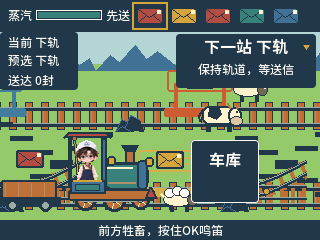
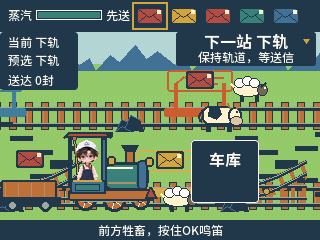
fix: keep POST route guidance above stations

Changed region(s): [[0.5312, 0.1167, 1.0, 0.3792]]

diff --git a/game-art/adventure/prototype/adv_post_draw.js b/game-art/adventure/prototype/adv_post_draw.js
@@ -49,13 +49,13 @@
     text(g.transition?'正在换轨':'当前 '+(g.lane?'下轨':'上轨'),8,36);
     text('预选 '+(g.choice?'下轨':'上轨'),8,54);
     text(g.practice?(g.lesson<2?'练习 1/3':g.lesson<3?'练习 2/3':'练习 3/3'):'送达 '+(g.score>9999?'9999+':g.score+'封'),8,74);
-    c.fillStyle='#203849';c.fillRect(176,34,140,54);
+    c.fillStyle='#203849';c.fillRect(176,32,140,34);
     const r=P.route(g);let title,actionHint;
     if(g.practice){
       [title,actionHint]=[['第一步 选上轨','按上键选择上轨'],['正在切换到上轨','等到红站再送信'],['第二步 送红信','现在轻点一下OK'],['第三步 鸣笛','按住OK让羊离开'],['鸣笛成功','先松开OK'],['你学会了','点OK继续']][g.lesson];
     }else if(r.lane<0){title=g.remaining?'前方暂无车站':'信已送完';actionHint=g.remaining?'看到站牌再选轨':'自动回库补信';}
     else{title='下一站 '+(r.lane?'下轨 ↓':'上轨 ↑');actionHint=r.canChoose?(r.choiceMatches?'已选好，保持轨道':r.lane?'按下键选下轨':'按上键选上轨'):r.atLane?'保持轨道，等送信':g.lane===r.lane?'正在切换轨道':'已过岔口，来不及了';}
-    text(title,246,38,16,'#fffaf0','center');text(actionHint,246,63,12,!g.practice&&r.canChoose&&!r.choiceMatches?'#f3c15a':'#fffaf0','center');
+    text(title,246,33,16,'#fffaf0','center');text(actionHint,246,51,12,!g.practice&&r.canChoose&&!r.choiceMatches?'#f3c15a':'#fffaf0','center');
     const reasons=['','未到送信位置','这站在另一轨','信封颜色不同','没有待送的信','错过站台 蒸汽-250','撞到牲畜 蒸汽-250'];
     const animal=g.events.some(e=>e.type===4&&!e.done&&e.lane===g.lane&&e.x>P.X&&e.x<P.X+g.speed*90);
     const pending=g.hold>0&&g.hold<P.HOLD&&g.tapTarget>=0&&!g.tapReason;

diff --git a/tests/adv_host/adv_ui_host.c b/tests/adv_host/adv_ui_host.c
@@ -6,6 +6,7 @@
 #include "adv_model.h"
 #include "adv_post.h"
 #include "adv_ui.h"
+#include "adv_ui_art.h"
 #include "adv_ui_animation.h"
 #include "nabo_jump_model.h"
 
@@ -128,6 +129,26 @@ void host_post_case(int which)
         p->events[0]=(adv_post_event_t){POST_FORK,(which==11?90:240)*60,0,0,which==11,0};
         p->events[1]=(adv_post_event_t){POST_STATION,(which==11?190:340)*60,lane,p->mail[0],0,0};
     }
+}
+
+void host_post_station_at(int lane,int x)
+{
+    host_post_case(0);adv_post_t *p=model.game;
+    p->events[0]=(adv_post_event_t){POST_STATION,x*60,lane,p->mail[0],0,0};
+    adv_ui_invalidate();
+}
+
+// Draw the native station alone on a sentinel background. The test compares
+// every opaque station/mail pixel against the complete production scene.
+void host_post_station_reference(int lane,int x)
+{
+    extern void adv_ui_send(void *,int,int,int,int,uint16_t *);
+    static ag_t gfx;static uint16_t strips[2][AG_MAX_W*AG_STRIP];
+    ag_init(&gfx,strips[0],strips[1],adv_ui_send,NULL);ag_viewport(&gfx,320,240);
+    ag_begin(&gfx,99);ag_rect(&gfx,0,0,320,240,0,0xf81f,255,0,0);
+    int y=lane?ADV_POST_LOWER:ADV_POST_UPPER;
+    ui_art_tint(&gfx,"game/post/props/station-platform-mask",x-40,y-66,0xcae6);
+    ui_art(&gfx,"game/post/props/envelope-red",0,x-16,y-64);ag_flush(&gfx);
 }
 
 void host_post_practice_case(int lesson)

diff --git a/tests/test_adv_renderer.py b/tests/test_adv_renderer.py
@@ -152,6 +152,19 @@ class Renderer(unittest.TestCase):
         self.lib.host_post_practice_case(2);self.check('POST waiting for a tap');self.steps(1200)
         self.assertEqual(self.lib.host_phase(),2)
 
+    def test_route_guidance_never_covers_ahead_station_or_its_mail(self):
+        self.new([0,99,0,0,0,0,0,0,0],seen=7)
+        for lane in (0,1):
+            for x in (200,240,280):
+                self.lib.host_post_station_at(lane,x);self.check(f'station visible {lane},{x}')
+                actual=self.view_image()
+                if x==240:self.save('post-station-visible-'+('lower' if lane else 'upper')+'.png',True)
+                self.lib.host_post_station_reference(lane,x);reference=self.view_image()
+                opaque=[(i,p) for i,p in enumerate(reference.getdata()) if p!=(255,0,255)]
+                self.assertGreater(len(opaque),500,'the real station and envelope must be present')
+                scene=list(actual.getdata())
+                self.assertTrue(all(scene[i]==p for i,p in opaque),f'UI obscures station/mail at lane={lane},x={x}')
+
     def test_landscape_rotation_has_no_mirror_and_returns_to_portrait(self):
         self.new([0,99,0,0,0,0,0,0,0],seen=7)
         self.lib.host_post_case(0);self.check('landscape enter')

diff --git a/firmware/main/adv_ui_post.c b/firmware/main/adv_ui_post.c
@@ -88,10 +88,11 @@ static void guidance(ag_t *g,const adv_post_t *p)
         action=r.can_choose?(r.choice_matches?"已选好，保持轨道":r.lane?"按下键选下轨":"按上键选上轨"):
             r.at_lane?"保持轨道，等送信":p->lane==r.lane?"正在切换轨道":"已过岔口，来不及了";
     }
-    ag_rect(g,176,34,140,54,4,UI_INK,255,0,0);
-    text(g,title,246,38,16,NT_ALIGN_CENTER,UI_WHITE);
-    if(!p->practice&&r.lane>=0)ag_tri(g,306,47,5,r.lane==0,UI_GOLD);
-    text(g,action,246,63,12,NT_ALIGN_CENTER,!p->practice&&r.can_choose&&!r.choice_matches?UI_GOLD:UI_WHITE);
+    // End above y66: upper-track station roofs and their mail start there.
+    ag_rect(g,176,32,140,34,3,UI_INK,255,0,0);
+    text(g,title,246,33,16,NT_ALIGN_CENTER,UI_WHITE);
+    if(!p->practice&&r.lane>=0)ag_tri(g,306,41,5,r.lane==0,UI_GOLD);
+    text(g,action,246,51,12,NT_ALIGN_CENTER,!p->practice&&r.can_choose&&!r.choice_matches?UI_GOLD:UI_WHITE);
     static const char *const reasons[]={"","未到送信位置","这站在另一轨","信封颜色不同","没有待送的信","错过站台 蒸汽-250","撞到牲畜 蒸汽-250"};
     bool animal=false;
     for(int i=0;i<ADV_POST_CAP;i++) {

diff --git a/tools/smoke_post.py b/tools/smoke_post.py
@@ -118,6 +118,11 @@ def main():
         port.set_buffer_size(rx_size=1024*1024,tx_size=16384);link=Link(BufferedPort(port),log)
         try:
             initial=link.enable_test();before=(initial['best'],initial['seen'])
+            # Leaving a previous test deliberately swallows held physical keys.
+            # Clear only raw edges before click-only navigation, as the legacy
+            # smoke does. This does not move a normal cover/map selection.
+            for button in range(3):
+                link.edge(button,True);link.edge(button,False)
             if initial['page']==0:link.key('ok');link.map()
             if initial['page']!=0 and initial['page']!=1:raise SmokeError('Reset to cover/map first')
             result['play']=play(link)

diff --git a/docs/DEVELOPMENT_PROGRESS.md b/docs/DEVELOPMENT_PROGRESS.md
@@ -2,12 +2,12 @@
 
 2026-10-25。用户在11轮美术交付后明确授权“开始开发吧”。按GAMES顺序逐款实施，不能把素材或占位关卡计为正式游戏。
 
-**最新：按用户反馈改为横屏并调整蓄力音频段。** fdec0883候选的179项宿主门禁/构建通过，POST320×240横屏、直接选轨提示、局内练习已在浏览器走通；20张旧竖屏画面像素不变。当前USB离线，候选尚未刷入，帧率/实体音量/横屏按键/睡醒待实测。用户已看到深潜新纪录，真实121/5888/4与6枚章经硬件重启保持，正常保存已复核。详情见[试玩反馈](PLAYTEST_FEEDBACK_20261025.md)，下方旧候选清单保留历史检查点。
+**最新：横屏遮挡修正版71fafacc已刷入。** 用户指出fdec0883的右提示牌挡车站，已将提示压至屋顶上方，并验证上下轨六个位置的车站/信封全部不被覆盖。180项门禁/构建、三游戏各10轮、正常练习/NVS通过，低干扰26.99/27.02/27.29fps；20张旧竖屏画面像素不变。正常test0练习第一步等实体显示/按键/蓄力音反馈，本候选睡醒未做。真实121/5888/4和6枚章保持，正常保存已复核。详情见[试玩反馈](PLAYTEST_FEEDBACK_20261025.md)，下方旧候选清单保留历史检查点。
 
 | 游戏 | 当前阶段 | 真实可玩状态 |
 |---|---|---|
 | 跳一跳、深潜 | 既有正式游戏，继续回归 | 557607镜像已真机验收 |
-| 小火车 POST | M0–M3已实现；M4按实体反馈修正后复验中 | 横屏fdec0883的179项宿主检查通过，待USB恢复后升级/测帧率/实体验收 |
+| 小火车 POST | M0–M3已实现；M4按实体反馈修正后复验中 | 71fafacc的180项门禁、保护式升级、自动流程/10轮/正常练习通过；实体反馈及睡醒待验收 |
 | 萤火虫 NIGHT | 美术已齐，正式玩法待开发 | 占位 |
 | 登山 CLIMB | 美术已齐，正式玩法待开发 | 占位 |
 | 滑雪 SKI | 美术已齐，正式玩法待开发 | 占位 |
@@ -19,8 +19,8 @@
 - [设计](../game-art/adventure/POST_DESIGN.md)、[可玩原型](../game-art/adventure/prototype/post.html)、[JS规则](../game-art/adventure/prototype/adv_post.js)。真实试玩验证上/下选轨与长按鸣笛，不把截图当完成一局。
 - 双轨岔口、同色送信、长按鸣笛、煤、车库补信、加速、后期绿色和牲畜、耗尽结束；整数60Hz/mulberry32；含练习/反馈的状态440字节，无每帧堆分配。
 - [纯C模型](../firmware/main/adv_post.c)逐步对拍33,600帧；新判定的自动驾驶对局达25封/6次补给，另含练习/随机输入。边界与5个故意改坏的规则均有测试。
-- [生产画面](../firmware/main/adv_ui_post.c)使用正式原尺寸人物/车体/车轮/绳端/前景组合。120px岔路段按速度过渡；提前显示下一站轨道；固定20个轨道绘制槽减少无用脏区。
-- 12项页面渲染回归包含所有POST反应、满场景、固定远景、增量=整屏、H模式传输范围和透明外缘裁剪。鸣笛为低幅纯音双音，按住延续、松开停止；实体听感另验。
+- [生产画面](../firmware/main/adv_ui_post.c)使用正式原尺寸人物/车体/车轮/绳端/前景组合。120px岔路段按速度过渡；320×240横屏，明确显示当前/预选/下一站轨道；提示底边停在车站屋顶之前。
+- 16项页面渲染回归包含所有POST反应、满场景、固定远景、增量=整屏、旋转/回竖屏、透明外缘裁剪及车站/信封不被遮挡。鸣笛为低幅纯音双音，按住延续、松开停止；实体听感另验。
 - 原型/固件POST占位标记已移除，门槛恢复5/12/25；统一暂停、重开、结算与NVS策略继续沿用外壳。其它五款仍为占位。
 - `>adv.open=post`仅测试模式/地图可用，绕过解锁条件但不伪造成绩、不改印章、不保存测试最好成绩。普通模式依然需深潜铜章解锁，测试结束恢复真实进度。
 

diff --git a/docs/VALIDATION.md b/docs/VALIDATION.md
@@ -152,3 +152,22 @@ app **1,514,528 B**，SHA256 **`6667fa0215dc75a02ddbcad93d53bc5b76aba1e797bd9cf4
 | 浏览器 | 横屏原型真实按钮完成选上轨、轻点送1封、长按赶羊；红站会停住等用户操作 |
 | 构建/冻结 | `private/build-post-landscape.log`，实际旧factory边界通过，精确bin/ELF/MAP/配置/字体/源哈希另外冻结 |
 | 工牌 | USB暂离线，尚未刷入；升级、帧率、自动压力、正常练习/NVS、实体横屏/音量/睡醒均待本候选重新验证 |
+
+### 71fafacc · 横屏提示遮挡修正版（当前）
+
+fdec0883随后已保护式刷入并通过自动流程/三游戏各10轮/正常练习/NVS，低干扰26.7–27.3fps；用户指出右提示挡住前方车站，未验收。该阶段证据另存`private/candidates/fdec08837a2b47df000ff61e4acf3451330c60ca1ff95300b43d7efca193aa81/validation.json`。首次POST检查未清理上轮测试留下的吞键位，停在封面；工具补原始沿初始化后重跑通过，14项相关工具回归通过，未修改固件按键规则。
+
[1 lines of base64/hex data omitted]
+
+| 检查 | 本镜像结果 |
+|---|---|
+| 保护升级 | `private/device/20261025-204647-386935-receipt.json`：重核COM12与同一MAC，全8MB备份/校验、只写app0x10000、全8MB回读应用及全部保护字节通过；原6MB资源不变 |
+| POST自动流程 | `private/post-smoke/20261025-204847.json`：送5封、一次补给、END至RESULT，10轮+暖机进出/鸣笛/暂停返回通过；地图heap255,860首尾一致，largest114,688 |
+| 旧游戏回归 | `private/smoke/20261025-205008-272124.json`：跳一跳/深潜各10轮+暖机，回地图heap各自255,772稳定，largest114,688；工具留test1后，整套检查确认恢复test0 |
+| 低干扰帧率 | `private/post-quiet-fps-71fafacc.json`：26.9869/27.0232/27.2851fps，中位27.0232，无overflow；仅对应三个3.5–4秒窗口，不宣称所有场景稳定30fps |
+| 正常隔离练习 | `private/post-normal-practice-smoke-71fafacc.json`：前后全局test0，等候不耗汽，150ms点按送1封、鸣笛赶羊成功，真实best/seen不变 |
[1 lines of base64/hex data omitted]
+| 整套清理 | `private/device-suite-71fafacc.json`：五项自动检查全通过，最终明确确认test0；失败时也须尝试并记录正常模式恢复，不能把用户留在全局测试抑制 |
+| 实体状态 | `private/post-human-practice-71fafacc-entry.json`：全局test0、局内practice1/lesson0、蒸汽1000；当前等用户确认车站可见、横屏实体操作和蓄力音。本候选30秒睡醒尚未做，不继承557607结果 |
+
+[本镜像设备练习截图](images/device/post-practice-71fafacc.png)为保持当前模式的320×240合成器捕获，完整76,800像素，已查看；并非实体屏幕照片。原始日志、备份、NVS与精确冻结候选仅在private目录。

diff --git a/docs/HANDOFF.md b/docs/HANDOFF.md
@@ -8,11 +8,11 @@
 
 《NABO 的冒险之旅》合集的**骨架、11轮美术和共用界面已交付，正在逐款开发正式游戏**。最新程序状态见 `DEVELOPMENT_PROGRESS.md`，镜像和实测边界见 `VALIDATION.md`。
 
-**接手先看 `PLAYTEST_FEEDBACK_20261025.md`。** 用户进一步要求火车横屏、蓄力仍太小；新候选fdec0883已完成320×240横屏/明确选轨提示/蓄力中频调整，179项宿主检查与构建通过，USB离线尚未刷入。当前设备仍是b0727d；121/5888/4和6枚章已经硬件重启保持，test0。下一步先重核实时串口/正常页、保留最新存档保护式升级，再测本候选POST/旧游戏/帧率/隔离练习和NVS，实体横屏/音量/睡醒仍需用户验证。后续人工练习须用`>adv.practice=post`，不能留在全局test1影响其它游戏保存。
+**接手先看 `PLAYTEST_FEEDBACK_20261025.md`。** 横屏fdec0883被用户指出右提示牌遮挡车站，未验收；最新71fafacc已把提示收至车站屋顶上方，180项宿主检查/构建、保护式刷写、POST送5封/补给/结算、三游戏各10轮、正常练习和NVS比对通过。低干扰26.99/27.02/27.29fps。121/5888/4、6枚章及24,576B存档保持不变。当前工牌test0，停在独立练习第一步，等用户确认车站可见/横屏操作与蓄力听感；本候选30秒睡醒尚未做。人工练习须用`>adv.practice=post`，不能留在全局test1影响其它游戏保存。
 
 - 合集外壳完整：封面 → 竖向地图（9 个站点）→ 护照亭 / 护照 / 设置 → 盖章仪式 → 统一的游戏流程（标题、倒数、进行中、暂停、结束、结算）。
 - 跳一跳、深潜是现成游戏，从地图进出，最佳成绩回传给外壳算印章。
-- 小火车POST正式规则/美术已接入，最新b0727d为实体反馈修正版；自动结果和未验收项以上方最新段落为准。萤火虫、登山、滑雪、热气球、太空仍跑**占位游戏**。
+- 小火车POST正式规则/美术已接入，最新71fafacc为横屏遮挡修正版；自动结果和未验收项以上方最新段落为准。萤火虫、登山、滑雪、热气球、太空仍跑**占位游戏**。
 - 共用页面已接入选定旅行服、地图/印章和复古护照美术。用户已对557607…镜像的加粗字体、新欢迎演出和30秒睡醒确认通过，原样冻结的已验收bin保留；新增玩法候选仍须各自实测。
 
 ## 2. 先读这些

diff --git a/docs/PLAYTEST_FEEDBACK_20261025.md b/docs/PLAYTEST_FEEDBACK_20261025.md
@@ -1,6 +1,16 @@
 # 实体试玩反馈与修正
 
-## 最新：横屏与蓄力音二次反馈
+## 最新：71fafacc 修正提示牌遮挡
+
+fdec0883保护式刷入后，自动送信/补给/结算、三游戏各10轮、正常练习与NVS检查均通过，低干扰中位27.18fps；但用户立即指出右侧提醒标志遮住前方车站，**该候选未获实体验收**。
+
[1 lines of base64/hex data omitted]
+
+180项宿主检查/构建通过，app仍1,643,024B、旧factory余388,592B。已再次全片备份、只写app、全片回读保护区；POST送5封/补给/结算，三游戏各10轮+暖机，正常test0隔离练习、NVS比对通过。低干扰26.99/27.02/27.29fps；真实121/5888/4与6枚章及24,576B存档完全未变。当前test0练习第一步等用户确认车站可见、实体操作与蓄力音；本候选睡醒未做。
+
+测试工具另修正一处初始化：上一轮退出测试会吞掉尚未释放的键，点击式导航前需像旧游戏工具一样先清理原始按下/松开沿。fdec首次自动检查因此停在封面、清理已确认，修正后重跑通过；原失败日志保留，不记为固件崩溃。
+
+## fdec0883：横屏与蓄力音二次反馈（历史）
 
[1 lines of base64/hex data omitted]
 

diff --git a/game-art/adventure/POST_DESIGN.md b/game-art/adventure/POST_DESIGN.md
@@ -6,6 +6,7 @@
 
 - POST单独采用320×240横屏，工牌顺时针横拿、三键在下沿；其余页面与旧游戏仍为240×320。上下轨基线132/212，车体参考x110、送信车头x156。LCD板级方向不变，两条320×8 DMA条带软件旋转，新增条带内存2560B，无整屏缓冲、不镜像NABO。
 - 右上指示牌直接写“下一站 上轨/下轨”和该按哪个键；预选正确、通过岔口已锁定、实际换轨中分别提示。左侧同时显示当前轨道与预选轨道。下一站轨道由最近的未完成站台与尚未通过的对应岔口推导，不能把预选当成已经换轨。
+- 指示牌限制在y32–66，不能盖住从y66开始的上轨站台与信封。上下轨各三个前方位置逐像素比较完整车站/信封与独立生产精灵参照；不能以看得见部分站牌代替无遮挡检查。
 - 固定60Hz、mulberry32、整数；世界位置以1/60像素存储，初速90px/s。
 - 上/下键按下选择下一岔口的上/下轨；在岔口120px连接段入口锁定选择，按实际行驶速度跨完整连接段平滑换轨。前1.5秒显示选线提示，下一站所在轨道提前显示，避免站牌尚未入屏就必须盲选。煤和牲畜使用当前实际y与轨道的20px范围判断，而非尚未到达的目标轨。
 - OK少于24步（约400ms）松开卸信，**按下时**记录站台、实际y所在轨道和队首颜色。送信中心是可见车头x156、窗口±32px；与换轨/碰撞的x110车体参考点分开。成功+1并移除队首，失误扣250；已接受的短按等待期间不会提前判漏送。站点驶过同样扣250，单站错误卸信后不再重复扣。

diff --git a/README.md b/README.md
@@ -2,7 +2,7 @@
 
 FoloToy AI Passport（ESP32-C3 / 8 MB）上的 NABO 游戏合集，独立离线固件：开机进入一张竖向冒险地图，从深海一路到太空，8 个游戏站点，每个游戏三枚印章，盖满一本冒险护照。不需要配网、激活或小智服务。
 
-> **开发中。** 11轮美术与共用界面已交付；557607…镜像的新字体、开机和睡醒已获用户真机确认。小火车新增横屏和明确选轨指示，跳一跳蓄力音移至中频；fdec0883候选179项宿主检查及构建通过，待连接工牌升级与实测。深潜新纪录已由用户看到，并经硬件重启读档保持。其余五站仍是占位。见[开发进度](docs/DEVELOPMENT_PROGRESS.md)、[试玩反馈](docs/PLAYTEST_FEEDBACK_20261025.md)与[验证记录](docs/VALIDATION.md)。
+> **开发中。** 11轮美术与共用界面已交付；557607…镜像的新字体、开机和睡醒已获用户真机确认。小火车已改横屏，并修正右侧提示遮挡车站；蓄力音移至中频。最新71fafacc的180项宿主检查、保护式升级、三游戏各10轮、正常练习与存档比对通过，低干扰采样27.0–27.3fps，实体反馈及本候选睡醒待验收。深潜新纪录已重启保持。其余五站仍是占位。见[开发进度](docs/DEVELOPMENT_PROGRESS.md)、[试玩反馈](docs/PLAYTEST_FEEDBACK_20261025.md)与[验证记录](docs/VALIDATION.md)。
 
 | 封面 | 地图 | 护照 | 盖章 | 游戏标题 | 结算 |
 |---|---|---|---|---|---|
